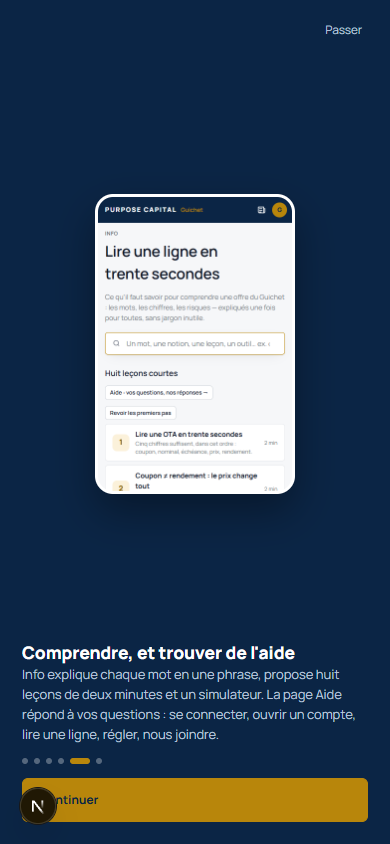
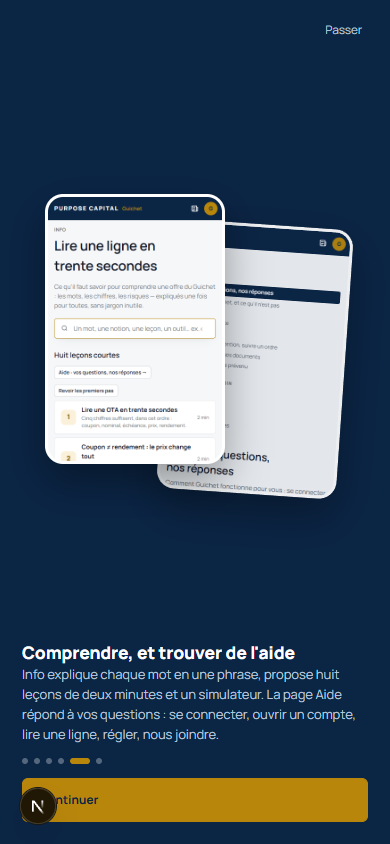
Premiers pas : la page Aide à côté de la page Info
L'écran « Comprendre, et trouver de l'aide » montre deux captures réelles au format téléphone : Info devant, Aide derrière (onboarding-aide.png). Le script de captures tolère une hauteur non mesurée et laisse plus de temps à l'écran des premiers pas.

Changed region(s): [[0.0923, 0.2156, 0.9231, 0.6161]]

diff --git a/src/components/mobile/Onboarding.tsx b/src/components/mobile/Onboarding.tsx
@@ -135,9 +135,15 @@ const SLIDES = [
     title: "Comprendre, et trouver de l'aide",
     text: "Info explique chaque mot en une phrase, propose huit leçons de deux minutes et un simulateur. La page Aide répond à vos questions : se connecter, ouvrir un compte, lire une ligne, régler, nous joindre.",
     art: (
-      <div className={styles.shotFrame}>
-        {/* eslint-disable-next-line @next/next/no-img-element */}
-        <img src="/guide/onboarding-info.png" alt="" loading="lazy" />
+      <div className={styles.shotPair}>
+        <div className={styles.shotFrame}>
+          {/* eslint-disable-next-line @next/next/no-img-element */}
+          <img src="/guide/onboarding-info.png" alt="" loading="lazy" />
+        </div>
+        <div className={`${styles.shotFrame} ${styles.shotBack}`}>
+          {/* eslint-disable-next-line @next/next/no-img-element */}
+          <img src="/guide/onboarding-aide.png" alt="" loading="lazy" />
+        </div>
       </div>
     ),
   },

diff --git a/src/components/mobile/Onboarding.module.css b/src/components/mobile/Onboarding.module.css
@@ -160,3 +160,28 @@
   width: 100%;
   height: auto;
 }
+
+/* two captures side by side: Info in front, Aide slightly behind */
+.shotPair {
+  position: relative;
+  width: 300px;
+  height: 300px;
+  margin: 0 auto;
+}
+.shotPair .shotFrame {
+  position: absolute;
+  top: 0;
+  left: 0;
+  width: 180px;
+  height: 270px;
+  margin: 0;
+  z-index: 1;
+}
+.shotPair .shotBack {
+  left: auto;
+  right: 0;
+  top: 30px;
+  transform: rotate(4deg);
+  opacity: 0.92;
+  z-index: 0;
+}
